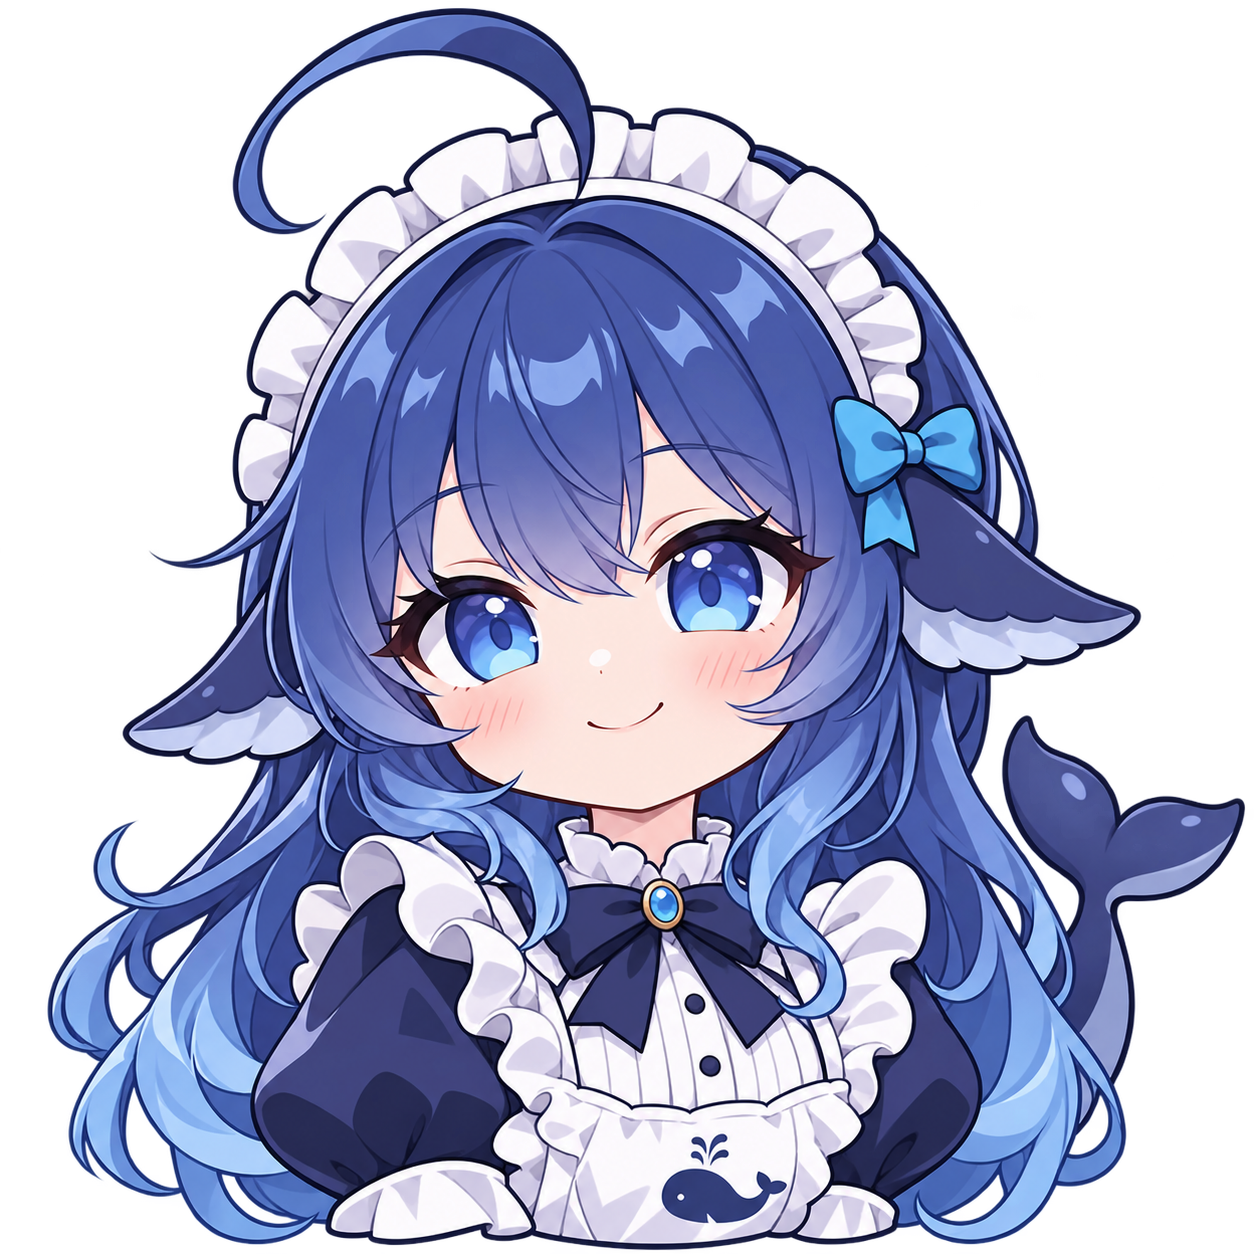
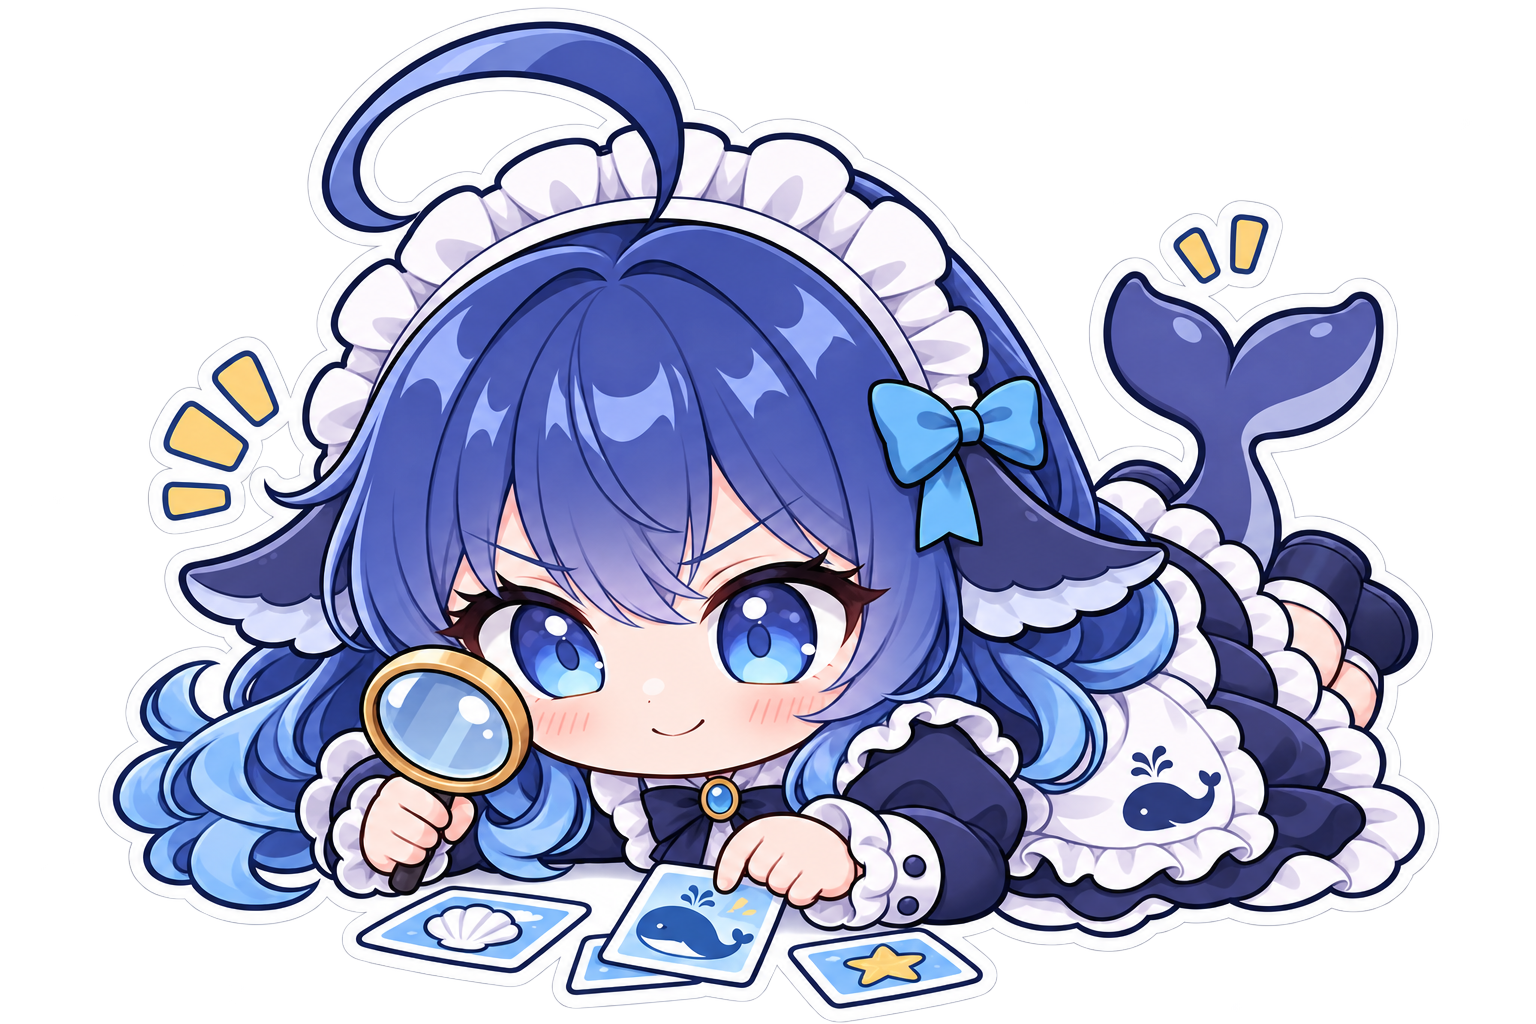
Update mascot to text-free searching whale illustration

diff --git a/ui/style.css b/ui/style.css
@@ -1,5 +1,5 @@
 :root{--blue:#315efb;--ink:#202738;--muted:#6c7589;--line:#e6eaf2;--paper:#f6f8fc;--white:#fff}*{box-sizing:border-box}body{margin:0;background:var(--paper);color:var(--ink);font:14px/1.6 "Segoe UI Variable","Microsoft YaHei UI",sans-serif}header{height:76px;padding:0 max(28px,calc((100vw - 1320px)/2));display:flex;align-items:center;justify-content:space-between;border-bottom:1px solid var(--line);background:#fff}.brand{display:flex;align-items:center;gap:12px;font-weight:650;font-size:19px;letter-spacing:.5px;color:var(--ink);text-decoration:none}.brand-icon{display:grid;place-items:center;width:34px;height:34px;color:#fff;background:var(--blue);border-radius:10px;font-size:27px}.badge{font-size:12px;color:#426358;background:#edf6f1;padding:5px 12px;border-radius:20px}.badge:before{content:"";display:inline-block;width:6px;height:6px;background:currentColor;border-radius:50%;margin-right:7px}main{max-width:1376px;padding:36px 28px 16px;margin:auto}.columns{display:grid;grid-template-columns:252px minmax(0,1fr);gap:32px;align-items:start}.controls{padding:8px 0}.controls section+section{border-top:1px solid var(--line);margin-top:26px;padding-top:25px}h1{font-size:26px;letter-spacing:-.5px;margin:0 0 4px;font-weight:650}h2{font-size:16px;margin:0 0 5px;font-weight:650}.hint,.small{color:var(--muted);font-size:12px;margin:6px 0 16px;line-height:1.7}.switch,.interval{display:flex;align-items:center;justify-content:space-between;margin:18px 0;gap:10px}.switch input{appearance:none;width:35px;height:21px;padding:2px;border:0;border-radius:20px;background:#c9cfdb;cursor:pointer}.switch input:before{content:"";display:block;width:17px;height:17px;border-radius:50%;background:white;transition:transform .15s}.switch input:checked{background:var(--blue)}.switch input:checked:before{transform:translateX(14px)}input,textarea,select{font:inherit;border:1px solid #d7deeb;border-radius:7px;padding:9px 11px;color:var(--ink);background:white;max-width:100%}input[type=number]{width:75px;padding:6px 9px}.interval span{display:flex;gap:9px;align-items:center;color:var(--muted)}button,.file-button{font:inherit;font-size:13px;border:1px solid #dbe1ec;color:var(--ink);background:#fff;border-radius:7px;padding:8px 13px;cursor:pointer;display:inline-flex;align-items:center;justify-content:center;white-space:nowrap;min-height:37px}button:hover,.file-button:hover{background:#f0f4ff;border-color:#aabbee}.primary{background:var(--blue);color:white;border-color:var(--blue)}.primary:hover{background:#254cda;color:#fff}.wide{width:100%;margin-top:10px}button:disabled{opacity:.55;cursor:wait}#saved{margin-left:8px}.file-button input{display:none}button:focus-visible,input:focus-visible,summary:focus-visible,select:focus-visible,textarea:focus-visible{outline:3px solid #a6b9ff;outline-offset:3px}details{margin-top:22px}summary{cursor:pointer;font-size:12px;color:var(--muted)}details label{display:block;margin:15px 0}details button{margin:3px 0}pre{white-space:pre-wrap;overflow-wrap:anywhere;max-height:220px;overflow:auto;font-size:11px}.library{background:#fff;border:1px solid var(--line);border-radius:14px;padding:28px 30px;min-height:650px}.section-head{display:flex;justify-content:space-between;align-items:center;gap:16px}.section-head p{margin:0}.library-actions{display:flex;gap:8px;flex-wrap:wrap}#connect-library{display:flex;gap:8px;margin-top:25px;padding:12px;background:var(--paper);border-radius:9px}#library-path{flex:1;min-width:0;border:0;background:transparent}#library-roots p{overflow-wrap:anywhere;font-size:11px;margin:8px 0;display:flex;gap:10px;align-items:center}#library-roots button{font-size:11px;padding:2px 8px;min-height:25px;flex-shrink:0}.library-tabs{display:flex;gap:24px;border-bottom:1px solid var(--line);margin-top:25px;overflow-x:auto}.library-tabs button{border:0;border-bottom:2px solid transparent;border-radius:0;padding:12px 0;color:var(--muted);background:transparent}.library-tabs button[aria-pressed=true]{color:var(--blue);border-bottom-color:var(--blue);font-weight:600}#library-origin:empty{display:none}.gallery{display:grid;grid-template-columns:repeat(auto-fill,minmax(135px,1fr));gap:16px;margin-top:24px}.tile{display:block;border:1px solid var(--line);padding:12px;border-radius:10px;min-width:0;white-space:normal}.tile img{width:100%;height:110px;object-fit:contain;display:block;margin-bottom:12px}.tile span{display:block;overflow:hidden;text-overflow:ellipsis;white-space:nowrap;font-size:12px}.tile small{font-size:11px;color:var(--muted)}.tile.pending small{color:#946d27}.empty{grid-column:1/-1;display:flex;align-items:center;justify-content:center;text-align:center;color:var(--muted);font-size:13px;min-height:280px;border:1px dashed #dce3ef;border-radius:10px;margin:0;padding:30px}footer{display:flex;justify-content:space-between;align-items:start;gap:24px;color:var(--muted);font-size:11px;padding:24px 0}footer details{margin:0;overflow-wrap:anywhere}#notice:empty{display:none}#notice{background:#eaf0ff;color:#2544a9;border-radius:8px;padding:10px 16px;margin-bottom:20px;font-size:13px}dialog{border:0;border-radius:16px;max-width:650px;width:94%;padding:30px;color:var(--ink);max-height:90vh;overflow:auto;box-shadow:0 24px 90px #17254b33}dialog::backdrop{background:#1b2d4d55}dialog .close{float:right;border:0;font-size:22px}dialog img{width:140px;height:140px;object-fit:contain}dialog>label{display:block;margin:15px 0}dialog textarea,dialog>label>input:not([type=checkbox]){display:block;width:100%;margin-top:5px}.tag-fields{display:grid;grid-template-columns:1fr 1fr;gap:12px}.tag-fields select{display:block;width:100%;font-size:12px}#edit-message{color:var(--blue)}@media(max-width:900px){main{padding:24px 18px}.columns{grid-template-columns:210px minmax(0,1fr);gap:20px}.library{padding:22px 18px}.section-head{align-items:start;flex-direction:column}.library-tabs{gap:15px}}@media(max-width:640px){header{padding:0 20px;height:64px}.columns{grid-template-columns:1fr}.controls{display:grid;grid-template-columns:1fr 1fr;gap:20px}.controls section+section{border:0;margin:0;padding:0}.controls>details{grid-column:1/-1;margin:0}.library{min-height:460px}.empty{min-height:200px}.library-actions{gap:5px}#connect-library{padding:6px;gap:4px}#library-path{font-size:12px}.tag-fields{grid-template-columns:1fr}footer{flex-direction:column}}@media(prefers-reduced-motion:reduce){*{transition:none!important}}
-.brand-mascot{width:52px;height:56px;object-fit:contain;display:block}
+.brand-mascot{width:76px;height:56px;object-fit:contain;display:block}
 
 @media(max-width:640px){.interval{align-items:flex-start;flex-direction:column}.interval span{white-space:nowrap}.controls{gap:20px}.controls input[type=number]{width:80px}}
 

diff --git a/README.md b/README.md
@@ -1,5 +1,5 @@
 <div align="center">
-  <img src="ui/mascot.png" width="104" alt="Meme Studio 蓝色大肥鱼">
+  <img src="ui/mascot.png" width="140" alt="Meme Studio 蓝色大肥鱼">
   <h1>Meme Studio · 表情工作台</h1>
   <p><strong>让 AI 找到表情，也读懂表情。</strong></p>
   <p>定期采集 · 语义标注 · 对话选图 · 本地图库</p>
